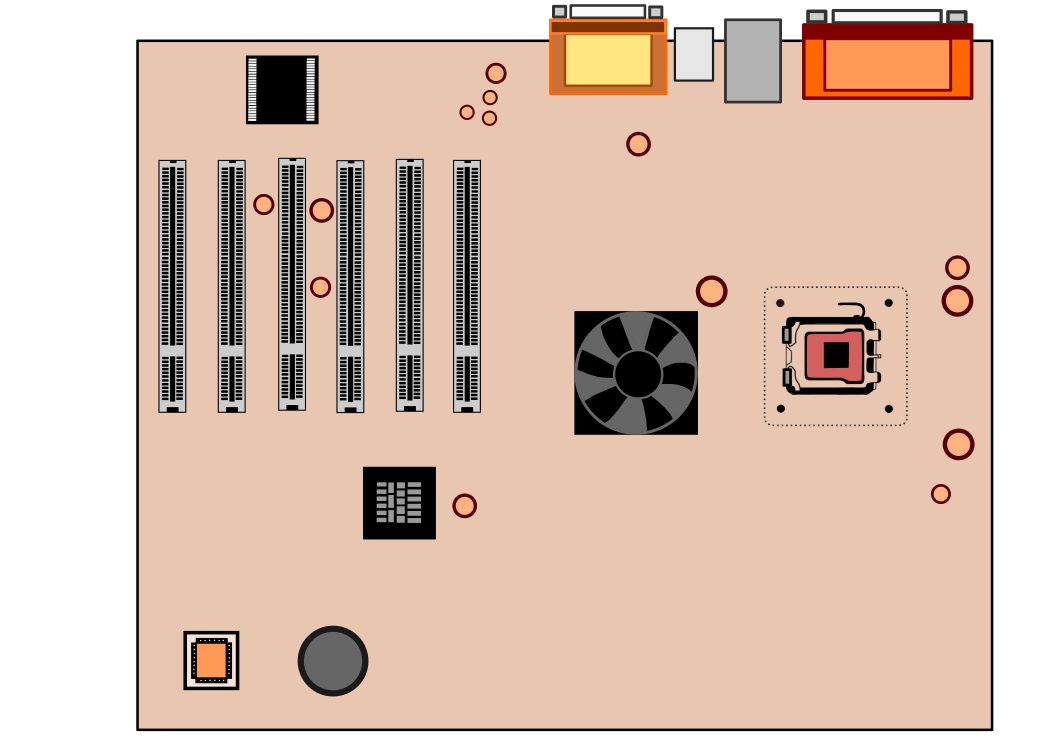
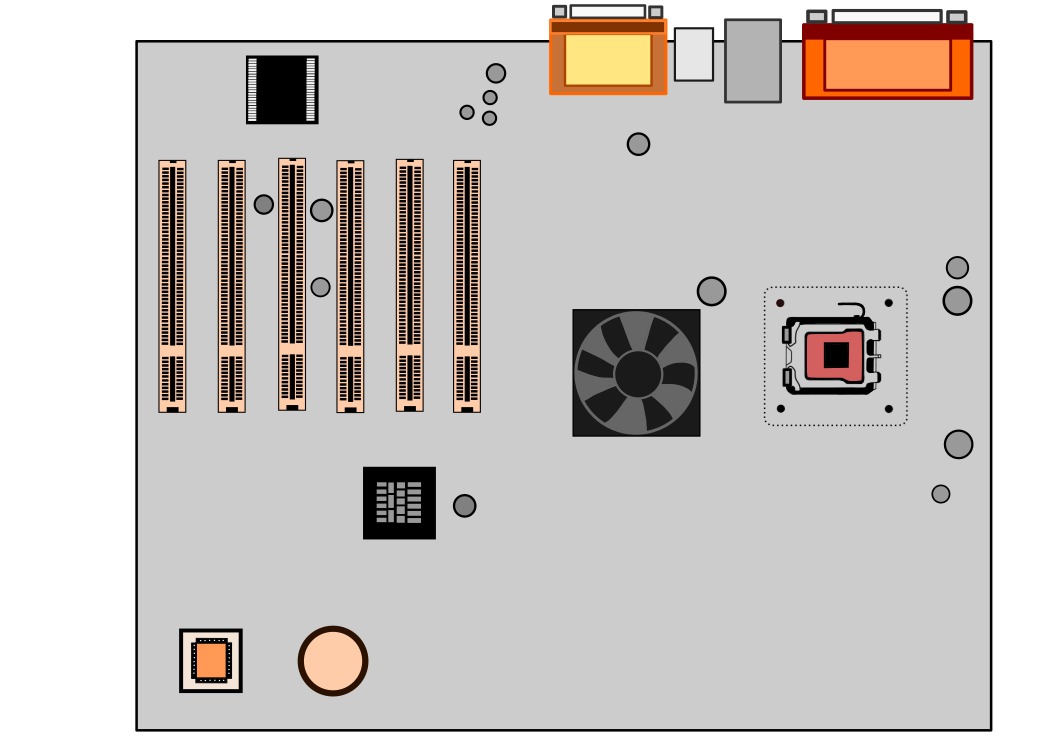
update hra2 	# Please enter the commit message for your changes. Lines starting

diff --git a/ZabavnaInformatika/aplikace/hra2.php b/ZabavnaInformatika/aplikace/hra2.php
@@ -12,16 +12,17 @@
             <button id="hra2bios">3</button>
             <button id="hra2disk">4</button>
             <button id="hra2chipset">5</button>
-            <button id="hra2cards">6</button>
+            <button id="hra2ram">6</button>
             <button id="hra2inout">7</button>
             <div>`;
-        sidebar.innerHTML = `<div class="components"><button>RAM</button>
+        sidebar.innerHTML = `<div class="components">
+            <button>Ethernet, USB, ...</button>
+            <button>Síťové, zvukové, grafické karty</button>
             <button>Procesor (CPU)</button>
+            <button>RAM</button>
             <button>Bios</button>
             <button>HDD nebo SSD</button>
             <button>North-South bridge chipset</button>
-            <button>Síťové, zvukové, grafické karty</button>
-            <button>Ethernet, USB, ...</button>
             </div>`;
         document.getElementById("sidebar").style.margin = "50px 20px 0px 0px ";
     }
@@ -106,38 +107,84 @@
 
     /* Style the button and place it in the middle of the hra2container/image */
     .hra2container #hra2pci {
-        position: absolute;
         top: 40%;
-        left: 30%;
+        left: 27.5%;
+    }
+
+    .hra2container #hra2cpu {
+        top: 48%;
+        left: 79%;
+    }
+
+    .hra2container #hra2bios {
+        top: 88%;
+        left: 20%;
+    }
+
+    .hra2container #hra2disk {
+        top: 88%;
+        left: 45%;
+    }
+
+    .hra2container #hra2chipset {
+        top: 50%;
+        left: 60%;
+    }
+
+    .hra2container #hra2chipset:hover {
+        width:20%;
+        height:20%;
+    }   
+
+    .hra2container #hra2ram {
+        top: 73%;
+        left: 70%;
+    }
+
+    .hra2container #hra2ram:hover {
+        width:30%;
+        height:26%;
+    }   
+
+    .hra2container #hra2inout {
+        top: 7%;
+        left: 71.5%;
+    }    
+
+    .hra2container #hra2inout:hover {
+        width:45%;
+        height:20%;
+    }   
+
+    .hra2container button {
+        position: absolute;
         transform: translate(-50%, -50%);
         -ms-transform: translate(-50%, -50%);
         background-color: transparent;
         color: white;
         font-size: 25px;
-        padding: 5px 50px;
-        border: none;
+        border:  none;
         cursor: pointer;
         font-weight: bold;
     }
 
-    .hra2container #pci:hover {
-        border: 1px solid #E97451;
-        background-color: #FBCEB1
+    .hra2container button:hover {
+        border: 3px solid #FFCC99;
+        border-radius: 10px;
     }
 
-    .har2container
 
     .components button {
         display: block;
-        background-color: #FBCEB1 ;
-        border: 2px solid #FBCEB1 ;
-        border-radius:20px;
+        background-color: #FFCC99 ;
+        border: 2px solid #FFCC99 ;
+        border-radius:10px;
         color: #FF4F00;
         float: right;
-        font-size: 18px;
+        font-size: 16px;
         font-weight: bold;
         margin-top: 20px;
-        padding: 15px 25px;
+        padding: 10px 10px;
         text-align: center;
         width: 200px;
     }
